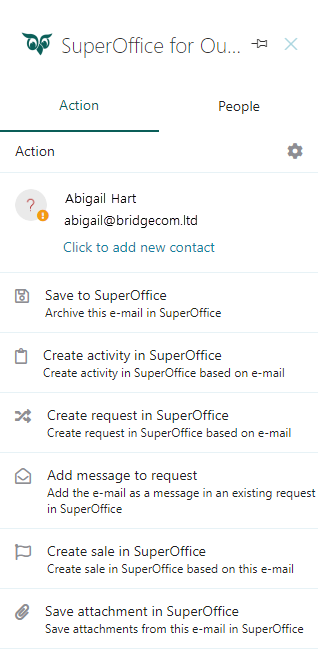
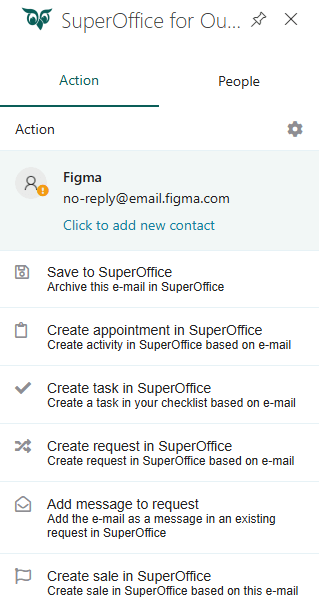
#1321 update feature list and screenshot

diff --git a/docs/en/email/superoffice-for-outlook/learn/index.md b/docs/en/email/superoffice-for-outlook/learn/index.md
@@ -4,7 +4,7 @@ title: SuperOffice for Outlook
 description: The SuperOffice for Outlook add-in lets you work effortlessly between your Microsoft 365 and SuperOffice CRM solution, by letting you access key information and features from SuperOffice directly in your email.
 keywords: email, SuperOffice for Outlook, Outlook
 author: Bergfrid Dias
-date: 09.20.2024
+date: 10.14.2024
 version_sofo: 2024.8.12
 topic: concept
 language: en
@@ -30,16 +30,18 @@ You will have key information at your fingertips, right when you need it. Plus, 
 
 ![Action tab showing save to email and create activity options in SuperOffice -screenshot][img1]
 
-## Key Features
+## Key features
 
 The SuperOffice for Outlook add-in lets you:
 
 * Save contacts and companies
 * Archive emails
-* Create appointments and tasks
-* Create sales, activities, and requests
-* Add messages to request
 * Save attachments to SuperOffice CRM
+* Create appointments
+* Create tasks
+* Create sales
+* Create requests
+* Add messages to request
 * Add CRM data to calendar events
 
 Everything you need is integrated into your inbox, making your workflow smoother and more efficient.
